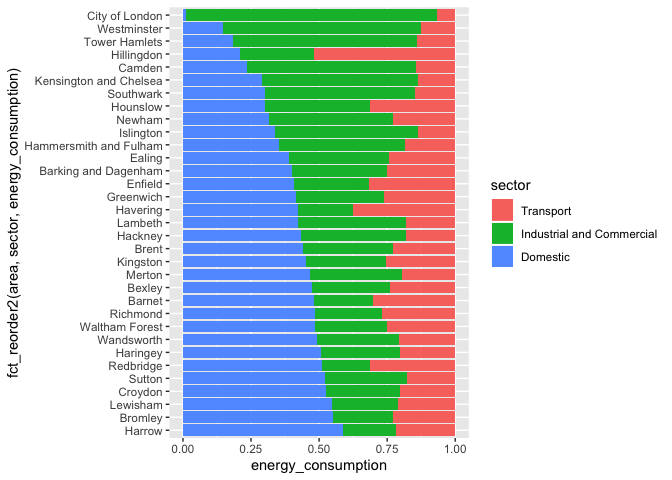
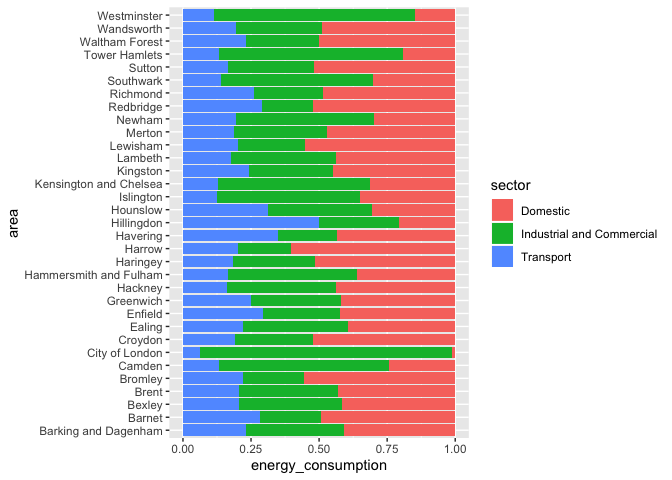
With write-up

diff --git a/README.md b/README.md
@@ -1,83 +1,133 @@
 Using Ternary Plots to Visualise London’s Energy Consumption
 ================
 
+This post shows how ternary plots can be both an communicative and
+beautiful form of data visualisation. To create the ternary plot, we’ll
+use the ggtern package (see <http://www.ggtern.com/> for more info), as
+well as a function from my own JLLify package (see here:
+<https://github.com/OwnKng/JLLify>) to style the plots.
+
+### The Data
+
+The data we’re using comes the London Energy and Greenhouse Gas
+Inventory (LEGGI). This is a record of greenhouse gas emissions and
+energy consumption from homes, workplaces and transport within the
+Greater London area. It is published every year, though the most recent
+record we have is from 2017. Here, we will look at energy consumption
+only.
+
 ``` r
 library(tidyverse)
-```
 
-    ## ── Attaching packages ─────────────────────────────────────────────────────────────────────────── tidyverse 1.3.0 ──
-
-    ## ✓ ggplot2 3.2.1     ✓ purrr   0.3.3
-    ## ✓ tibble  2.1.3     ✓ dplyr   0.8.3
-    ## ✓ tidyr   1.0.0     ✓ stringr 1.4.0
-    ## ✓ readr   1.3.1     ✓ forcats 0.4.0
-
-    ## ── Conflicts ────────────────────────────────────────────────────────────────────────────── tidyverse_conflicts() ──
-    ## x dplyr::filter() masks stats::filter()
-    ## x dplyr::lag()    masks stats::lag()
-
-``` r
 energy <- read_csv(
   "https://data.london.gov.uk/download/leggi/2d6ee3f1-e928-48a9-8eab-01748c65ac6f/energy-consumption-borough-leggi.csv")
-```
 
-    ## Parsed with column specification:
-    ## cols(
-    ##   Area = col_character(),
-    ##   LEGGI_Year = col_double(),
-    ##   Sector = col_character(),
-    ##   Fuel = col_character(),
-    ##   Data_Year = col_character(),
-    ##   kWh = col_character()
-    ## )
-
-``` r
 energy <- energy %>% janitor::clean_names()
-
-energy$k_wh <- as.numeric(energy$k_wh)
+energy <- energy %>% mutate_at(vars(k_wh, data_year), as.numeric)
 ```
 
-    ## Warning: NAs introduced by coercion
+As the data contains three major means sources of energy use, we can
+easily summarise what share each use represents for every London
+borough.
 
 ``` r
 energy_summarised <- energy %>% 
-  filter(leggi_year == 2016, sector != "Total", area != "Unapportioned", area != "London") %>% 
+  filter(leggi_year == 2017, sector != "Total", 
+         area != "Unapportioned", 
+         area != "London") %>% 
   group_by(area, sector) %>% 
   summarise(energy_consumption = sum(k_wh)) %>% 
-  ungroup()
-
-energy_summarised %>% 
+  ungroup() %>% 
   group_by(area) %>% 
-  mutate(energy_consumption = energy_consumption/sum(energy_consumption)) %>% 
-  mutate(sector = fct_reorder(sector, energy_consumption)) %>% 
-  ggplot(aes(fct_reorder2(area, sector, energy_consumption), energy_consumption)) + 
+  mutate(energy_consumption = energy_consumption/sum(energy_consumption)) 
+
+energy_summarised
+```
+
+    ## # A tibble: 99 x 3
+    ## # Groups:   area [33]
+    ##    area                 sector                    energy_consumption
+    ##    <chr>                <chr>                                  <dbl>
+    ##  1 Barking and Dagenham Domestic                               0.409
+    ##  2 Barking and Dagenham Industrial and Commercial              0.359
+    ##  3 Barking and Dagenham Transport                              0.232
+    ##  4 Barnet               Domestic                               0.491
+    ##  5 Barnet               Industrial and Commercial              0.227
+    ##  6 Barnet               Transport                              0.282
+    ##  7 Bexley               Domestic                               0.417
+    ##  8 Bexley               Industrial and Commercial              0.378
+    ##  9 Bexley               Transport                              0.204
+    ## 10 Brent                Domestic                               0.431
+    ## # … with 89 more rows
+
+### Visualising the Data
+
+We can pipe the summarised data into a ggplot command to produce a
+rather standard filled column graph.
+
+``` r
+energy_summarised %>% 
+  ggplot(aes(area, energy_consumption)) + 
   geom_col(aes(fill = sector), position = "fill") +
   coord_flip()
 ```
 
 ![](README_files/figure-gfm/unnamed-chunk-3-1.png)<!-- -->
 
+### Using a Ternary Plot
+
+Where we have three categories in our data, ternary plots are a good
+alternative to the standard column graphs. Using a ternary plot, we can
+see which share each category of energy consumption represents. It’s
+also perhaps easier to see whether there’s a general trend in our data
+than with a column graph - e.g. does domestic energy consumption
+represent the main source of energy consumption across the London
+boroughs?
+
+The ggtern package is an extension to ggplot that enables the creation
+of ternary charts. As these plots have three axes, they can be difficult
+to read correctly. To remedy this, I’ve developed some light touch
+functions that handle the aesthetic styling of a ternary plot - applying
+axes colouring, shading certain zones and adding labels, etc. These
+functions are available in the JLLify package, which can be installed
+via github.
+
 ``` r
 library(ggtern)
-library(JLLify)
 
 # devtools::install_github("OwnKng/JLLify")
+library(JLLify)
 
 energy_tern <-energy_summarised %>% 
   spread(sector, value = energy_consumption)
 
-ggtern_base(x_label = "Domestic", y_label = "Industrial\n &\nCommercial", z_label = "Transport", 
-            x_color = "#B8D8D8", y_color = "#FE5F55", z_color = "#EEF5DB") +
+ggtern_base(x_label = "Domestic", 
+            y_label = "Industrial\n &\nCommercial", 
+            z_label = "Transport", 
+            x_color = "#B8D8D8", 
+            y_color = "#FE5F55", 
+            z_color = "#EEF5DB") +
   geom_point(data = energy_tern, aes(Domestic, `Industrial and Commercial`, Transport), 
              shape = 17, size = 6, color = "white") + 
   theme_ternary_dark(x_color = "#B8D8D8", y_color = "#FE5F55", z_color = "#EEF5DB") + 
-  labs(x = "", y = "", z = "")
+  labs(x = "%", y = "%", z = "%", 
+       title = "Energy Consumption by Sector", 
+       subtitle = 
+         "% of Boroughs' energy consumption from domestic, industrial or transport uses")
 ```
-
-    ## Warning: Ignoring unknown aesthetics: z
 
 ![](README_files/figure-gfm/unnamed-chunk-4-1.png)<!-- -->
 
-    ## Warning: Ignoring unknown aesthetics: z
+From this plot, we can see that in around two-thirds of London boroughs,
+domestic consumption accounts for the largest share of energy
+consumption. Industrial and commercial consumption accounts for the
+majority of energy usage in the other third. In one London borough -
+Hillingdon, where Heathrow Airport is located - transport represents
+about 50% of energy consumption.
+
+While this plot is useful for looking at the overall trend in the data,
+what it lacks is the ability to look at the distribution in each London
+borough (unlike the column graph). We can resolve this by faceting the
+visualisation, generating a longer, info-graphic style plot.
 
 ![](README_files/figure-gfm/unnamed-chunk-5-1.png)<!-- -->
